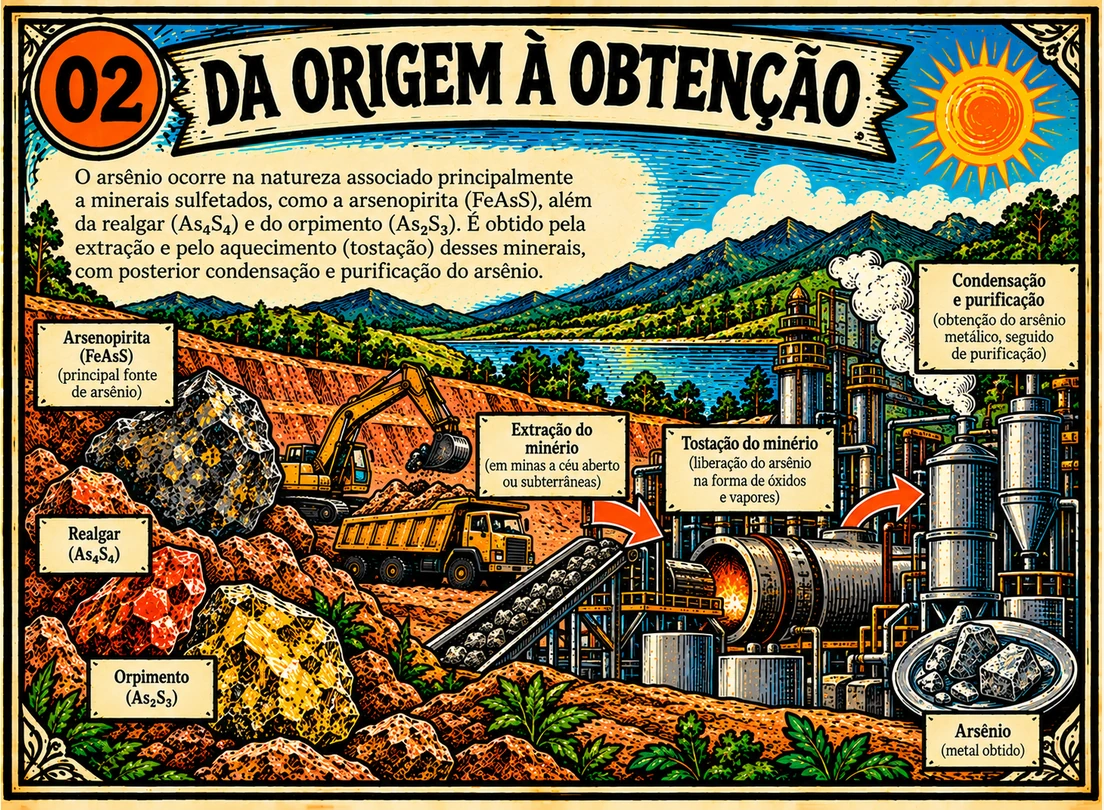
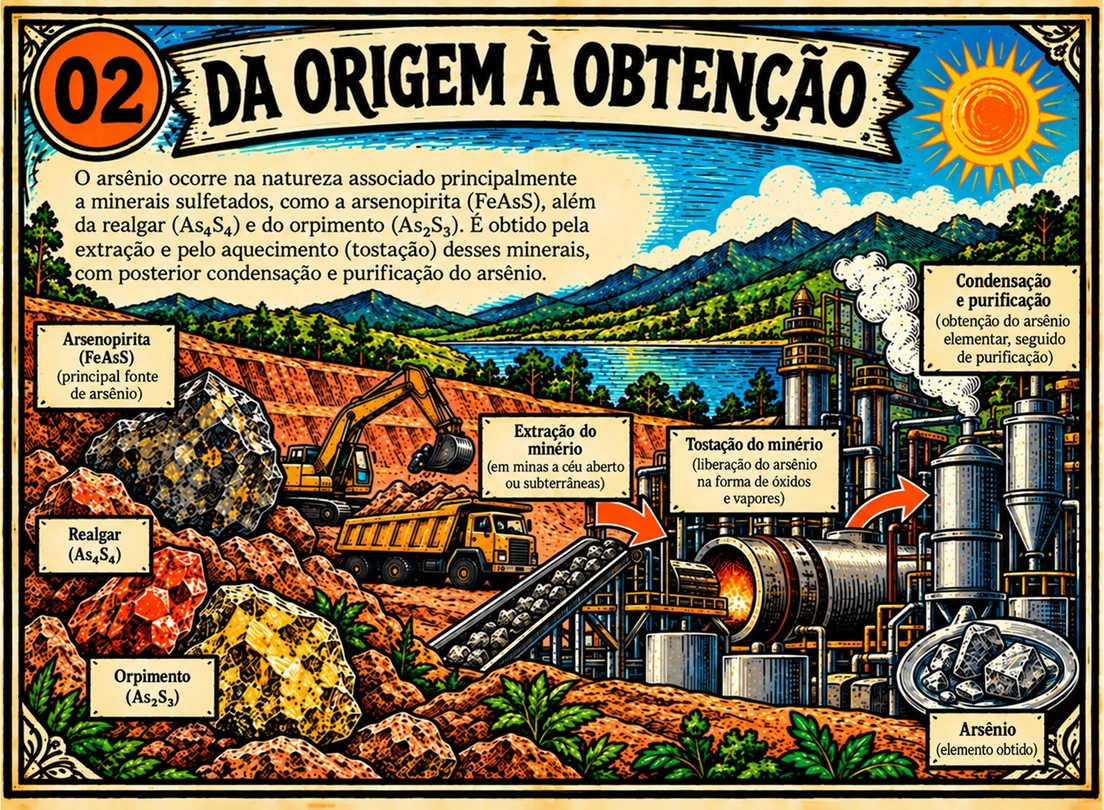
Corrigir quadros 032-02, 033-02 e 034-01; ativar folhetos A4 de Germânio e Selênio

diff --git a/elementos/germanio/index.html b/elementos/germanio/index.html
@@ -1,6 +1,6 @@
 <!doctype html>
 <html lang="pt-BR"><head><meta charset="utf-8"><meta name="viewport" content="width=device-width, initial-scale=1"><meta name="description" content="Germânio (Ge): explore o átomo, compare propriedades e descubra suas conexões no Cordel dos Elementos."><meta name="theme-color" content="#f4eedf"><meta name="color-scheme" content="light dark"><title>Germânio (Ge) · Cordel dos Elementos</title><link rel="manifest" href="../../manifest.webmanifest"><link rel="icon" href="../../assets/icon-192.png"><link rel="apple-touch-icon" href="../../assets/icon-192.png"><link rel="stylesheet" href="../../assets/style.css"><link rel="stylesheet" href="../../assets/element-page.css"><script defer src="../../assets/accessibility.js"></script><script defer src="../../assets/element-model.js"></script><script defer src="../../assets/element-page.js"></script></head>
-<body class="element-page" style="--element-color:#527143"><a class="skip" href="#conteudo">Pular para o conteúdo</a><header><div class="wrap head"><a class="brand" href="../../index.html"><img class="brand-logo" src="../../assets/logo-symbol.webp" width="64" height="64" alt=""><span>Cordel<br>dos Elementos</span></a><nav aria-label="Navegação principal"><a href="../../index.html">Explorar elementos</a><button class="install-open" type="button">Instalar</button><button id="appearance-open" type="button" aria-haspopup="dialog" aria-expanded="false" aria-controls="appearance">Acessibilidade</button></nav></div></header>
+<body class="element-page" data-folheto-piloto="germanio" style="--element-color:#527143"><a class="skip" href="#conteudo">Pular para o conteúdo</a><header><div class="wrap head"><a class="brand" href="../../index.html"><img class="brand-logo" src="../../assets/logo-symbol.webp" width="64" height="64" alt=""><span>Cordel<br>dos Elementos</span></a><nav aria-label="Navegação principal"><a href="../../index.html">Explorar elementos</a><button class="install-open" type="button">Instalar</button><button id="appearance-open" type="button" aria-haspopup="dialog" aria-expanded="false" aria-controls="appearance">Acessibilidade</button></nav></div></header>
 <main id="conteudo" class="wrap ep-main"><nav class="ep-breadcrumb" aria-label="Caminho da página"><a href="../../index.html#colecao">Coleção dos elementos</a><span aria-hidden="true">/</span><span aria-current="page">Germânio</span></nav>
 <div class="ep-hero" id="ficha"><figure class="ep-cover"><svg class="folio-frame folio-decoration" viewBox="0 0 100 140" preserveAspectRatio="none" aria-hidden="true" focusable="false"><path class="folio-frame-outer" d="M2.4 2L27.92 2.16L61.52 1.94L97.7 2.18L98 46.88L97.88 93.12L97.9 137.8L64.4 138L31.76 137.85L2.15 138L2 89.04L2.14 42.8Z"/><path class="folio-frame-inner" d="M3.5 3.5H96.5V136.5H3.5Z"/><path class="folio-frame-hatch" d="M5.05 4.3L4.3 5.05 M5.77 4.3L4.3 5.77 M6.49 4.3L4.3 6.49 M7.21 4.3L4.3 7.21 M5.05 135.7L4.3 134.95 M5.77 135.7L4.3 134.23 M6.49 135.7L4.3 133.51 M7.21 135.7L4.3 132.79 M94.95 4.3L95.7 5.05 M94.23 4.3L95.7 5.77 M93.51 4.3L95.7 6.49 M92.79 4.3L95.7 7.21 M94.95 135.7L95.7 134.95 M94.23 135.7L95.7 134.23 M93.51 135.7L95.7 133.51 M92.79 135.7L95.7 132.79"/></svg><span class="ep-cover-pin" aria-hidden="true"></span><div class="ep-cover-top"><span><small>Número atômico</small><strong>32</strong></span><span class="ep-state"><img src="../../assets/colecao/estado_solido_semimetais.webp" width="42" height="42" alt=""><span>Sólido<small>25 °C · 1 atm</small></span></span></div><span class="ep-symbol" aria-hidden="true">Ge</span><img class="ep-art" src="../../assets/colecao/arte-032.webp" alt="Lentes ópticas" width="640" height="427" fetchpriority="high"><figcaption><strong>Germânio</strong><span>72,630 u</span><div class="ep-ornament" aria-hidden="true">◆</div><p>Seu óxido é usado em vidros de lentes especiais.</p></figcaption></figure>
 <div class="ep-introduction"><p class="ep-kicker">Folheto 032 <span>/ 118</span></p><p class="ep-category">Semimetal</p><h1>Germânio</h1><p class="ep-hero-phrase">Seu óxido é usado em vidros de lentes especiais.</p><p class="ep-intro-description">Um elemento, muitas conexões. Percorra este folheto para descobrir o que sua identidade atômica revela e como ela se relaciona com o mundo.</p><dl class="ep-identity-facts"><div><dt>Símbolo químico</dt><dd>Ge</dd></div><div><dt>Na tabela</dt><dd>Grupo 14 · período 4</dd></div><div><dt>Massa atômica apresentada</dt><dd>72,630 u</dd></div></dl><div class="ep-actions"><a class="ep-primary" href="#atomo">Explorar o átomo <span aria-hidden="true">↓</span></a><button hidden data-enhance id="copy-element" type="button">Copiar link</button><button hidden data-enhance id="print-element" type="button">Imprimir folheto</button></div><p id="share-status" class="ep-status" role="status"></p><div id="share-fallback" hidden><label for="element-url">Selecione e copie o endereço</label><input id="element-url" readonly></div></div></div>

diff --git a/elementos/selenio/index.html b/elementos/selenio/index.html
@@ -1,6 +1,6 @@
 <!doctype html>
 <html lang="pt-BR"><head><meta charset="utf-8"><meta name="viewport" content="width=device-width, initial-scale=1"><meta name="description" content="Selênio (Se): explore o átomo, compare propriedades e descubra suas conexões no Cordel dos Elementos."><meta name="theme-color" content="#f4eedf"><meta name="color-scheme" content="light dark"><title>Selênio (Se) · Cordel dos Elementos</title><link rel="manifest" href="../../manifest.webmanifest"><link rel="icon" href="../../assets/icon-192.png"><link rel="apple-touch-icon" href="../../assets/icon-192.png"><link rel="stylesheet" href="../../assets/style.css"><link rel="stylesheet" href="../../assets/element-page.css"><script defer src="../../assets/accessibility.js"></script><script defer src="../../assets/element-model.js"></script><script defer src="../../assets/element-page.js"></script></head>
-<body class="element-page" style="--element-color:#526D94"><a class="skip" href="#conteudo">Pular para o conteúdo</a><header><div class="wrap head"><a class="brand" href="../../index.html"><img class="brand-logo" src="../../assets/logo-symbol.webp" width="64" height="64" alt=""><span>Cordel<br>dos Elementos</span></a><nav aria-label="Navegação principal"><a href="../../index.html">Explorar elementos</a><button class="install-open" type="button">Instalar</button><button id="appearance-open" type="button" aria-haspopup="dialog" aria-expanded="false" aria-controls="appearance">Acessibilidade</button></nav></div></header>
+<body class="element-page" data-folheto-piloto="selenio" style="--element-color:#526D94"><a class="skip" href="#conteudo">Pular para o conteúdo</a><header><div class="wrap head"><a class="brand" href="../../index.html"><img class="brand-logo" src="../../assets/logo-symbol.webp" width="64" height="64" alt=""><span>Cordel<br>dos Elementos</span></a><nav aria-label="Navegação principal"><a href="../../index.html">Explorar elementos</a><button class="install-open" type="button">Instalar</button><button id="appearance-open" type="button" aria-haspopup="dialog" aria-expanded="false" aria-controls="appearance">Acessibilidade</button></nav></div></header>
 <main id="conteudo" class="wrap ep-main"><nav class="ep-breadcrumb" aria-label="Caminho da página"><a href="../../index.html#colecao">Coleção dos elementos</a><span aria-hidden="true">/</span><span aria-current="page">Selênio</span></nav>
 <div class="ep-hero" id="ficha"><figure class="ep-cover"><svg class="folio-frame folio-decoration" viewBox="0 0 100 140" preserveAspectRatio="none" aria-hidden="true" focusable="false"><path class="folio-frame-outer" d="M2.4 2L27.92 2.16L61.52 1.94L97.7 2.18L98 46.88L97.88 93.12L97.9 137.8L64.4 138L31.76 137.85L2.15 138L2 89.04L2.14 42.8Z"/><path class="folio-frame-inner" d="M3.5 3.5H96.5V136.5H3.5Z"/><path class="folio-frame-hatch" d="M5.05 4.3L4.3 5.05 M5.77 4.3L4.3 5.77 M6.49 4.3L4.3 6.49 M7.21 4.3L4.3 7.21 M5.05 135.7L4.3 134.95 M5.77 135.7L4.3 134.23 M6.49 135.7L4.3 133.51 M7.21 135.7L4.3 132.79 M94.95 4.3L95.7 5.05 M94.23 4.3L95.7 5.77 M93.51 4.3L95.7 6.49 M92.79 4.3L95.7 7.21 M94.95 135.7L95.7 134.95 M94.23 135.7L95.7 134.23 M93.51 135.7L95.7 133.51 M92.79 135.7L95.7 132.79"/></svg><span class="ep-cover-pin" aria-hidden="true"></span><div class="ep-cover-top"><span><small>Número atômico</small><strong>34</strong></span><span class="ep-state"><img src="../../assets/colecao/estado_solido_nao_metais.webp" width="42" height="42" alt=""><span>Sólido<small>25 °C · 1 atm</small></span></span></div><span class="ep-symbol" aria-hidden="true">Se</span><img class="ep-art" src="../../assets/colecao/arte-034.webp" alt="Xampu" width="640" height="427" fetchpriority="high"><figcaption><strong>Selênio</strong><span>78,971 u</span><div class="ep-ornament" aria-hidden="true">◆</div><p>Sulfeto de selênio aparece em alguns xampus anticaspa.</p></figcaption></figure>
 <div class="ep-introduction"><p class="ep-kicker">Folheto 034 <span>/ 118</span></p><p class="ep-category">Não metal</p><h1>Selênio</h1><p class="ep-hero-phrase">Sulfeto de selênio aparece em alguns xampus anticaspa.</p><p class="ep-intro-description">Um elemento, muitas conexões. Percorra este folheto para descobrir o que sua identidade atômica revela e como ela se relaciona com o mundo.</p><dl class="ep-identity-facts"><div><dt>Símbolo químico</dt><dd>Se</dd></div><div><dt>Na tabela</dt><dd>Grupo 16 · período 4</dd></div><div><dt>Massa atômica apresentada</dt><dd>78,971 u</dd></div></dl><div class="ep-actions"><a class="ep-primary" href="#atomo">Explorar o átomo <span aria-hidden="true">↓</span></a><button hidden data-enhance id="copy-element" type="button">Copiar link</button><button hidden data-enhance id="print-element" type="button">Imprimir folheto</button></div><p id="share-status" class="ep-status" role="status"></p><div id="share-fallback" hidden><label for="element-url">Selecione e copie o endereço</label><input id="element-url" readonly></div></div></div>

diff --git a/sw.js b/sw.js
@@ -1,4 +1,4 @@
-const CACHE='cordel-varal-v66-quadros-031-035';
+const CACHE='cordel-varal-v67-032-034-corrigidos';
 const ROOT=new URL('./',self.location.href).href;
 // Critical UI files must be revalidated online, not served indefinitely from
 // an older app-shell cache. Offline fallback keeps the PWA usable.

diff --git a/docs/INTEGRACAO_QUADROS_031_035_PENDENTE_ASSETS.md b/docs/INTEGRACAO_QUADROS_031_035_PENDENTE_ASSETS.md
@@ -1,28 +1,17 @@
-# Situação dos quadros 031–035 — acervo e publicação
+# Integração dos quadros 031–035 — estado após correções
 
-Atualizado após recuperação das artes geradas e consolidação no GitHub.
+## Integrados nos folhetos A4
+- **031 Gálio**: quadros 01 e 02 já publicados, preservados.
+- **032 Germânio**: quadros 01 e 02 completos. Atualizado 032-02 para remover a afirmação de que germanita seria a principal fonte industrial de Ge. A legenda informa apenas que a germanita contém Ge. Recuperação industrial predominantemente como subproduto do processamento de minérios de zinco.
+- **034 Selênio**: quadros 01 e 02 completos. Atualizado 034-01 para retirar “alergas alimentares” e reformular o texto nutricional; verificação de fontes alimentares realizada. A presença em suplementos não é incentivo à suplementação.
+- **035 Bromo**: quadros 01 e 02 já publicados, preservados.
 
-## Elementos ativados no folheto A4
+Os arquivos corrigidos `032-02.webp` e `034-01.webp` foram exportados em 1104 × 810 pixels, com moldura completa. Os HTML de Germânio e Selênio usam `data-folheto-piloto` para ativar o layout integral já programado; o JavaScript só substitui as duas ilustrações quando **ambas** carregam com as dimensões corretas. Foi renovada a versão do cache PWA.
 
-- **031 — Gálio:** quadros 01 e 02 publicados, sem alterações.
-- **035 — Bromo:** quadros 01 e 02 publicados, sem alterações.
+## Arsênio 033 — pendente de par completo
+- `033-02.webp`: corrigido e armazenado em 1104 × 810 pixels. Substitui “metal obtido” por “arsênio elementar”, por se tratar de semimetal/metaloide.
+- `033-01.webp`: continua ausente (versão antiga descartada por apresentar aplicações históricas/controversas como usos atuais).
 
-## Artes armazenadas no GitHub, com integração no A4 ainda pendente
+**Não ativar o folheto 033** até haver Quadro 01 adequado e validação da sua integração; a correção do 033-02 está preservada no GitHub.
 
-- **032 — Germânio:**
-  - `032-01.webp`: aprovado e armazenado.
-  - `032-02.webp`: produzido e armazenado sem alterações, mas requer correção textual: germanita (Cu₃GeS₄) não deve ser indicada como fonte principal da obtenção industrial do elemento. Evitar esse enunciado no texto e na legenda.
-- **033 — Arsênio:**
-  - `033-01.webp`: versão descartada por destacar agrotóxicos/madeiras como aplicações atuais; não publicada.
-  - `033-02.webp`: imagem produzida e armazenada. Conferir roteiro industrial e substituir rótulo “metal obtido” por “arsênio elementar”, por ser classificado como semimetal/metaloide.
-- **034 — Selênio:**
-  - `034-01.webp`: produzido e armazenado sem alterações, porém contém “alergas alimentares” no parágrafo principal, expressão incorreta, além de afirmações nutricionais que exigem revisão.
-  - `034-02.webp`: aprovado e armazenado.
-
-Todos os WebP armazenados são 1104 × 810 px e preservam as artes originais. Para os elementos 032 e 034, o par de arquivos já existe no repositório, mas a página **não está ativada** para imprimir a arte com erros conhecidos. Para o 033, é necessária uma arte 01 corrigida.
-
-## Integração técnica existente
-
-As regras CSS para `031`, `032`, `034` e `035` e o carregador de dois quadros integrais estão preparados em `assets/element-page.css` e `assets/element-page.js`. O carregador evita ativar a impressão especial quando faltam arquivos, enquanto as páginas individuais mantiverem inativo `data-folheto-piloto`.
-
-O site não deve exibir os quadros com ressalvas antes da revisão editorial/científica e validação visual da folha A4. A arte superior de cada elemento e os quadros já publicados não devem ser modificados.
+Referências de conferência: USGS Germanium Statistics and Information (https://www.usgs.gov/centers/national-minerals-information-center/germanium-statistics-and-information), NIH ODS Selenium Fact Sheet (https://ods.od.nih.gov/factsheets/Selenium-HealthProfessional/).
